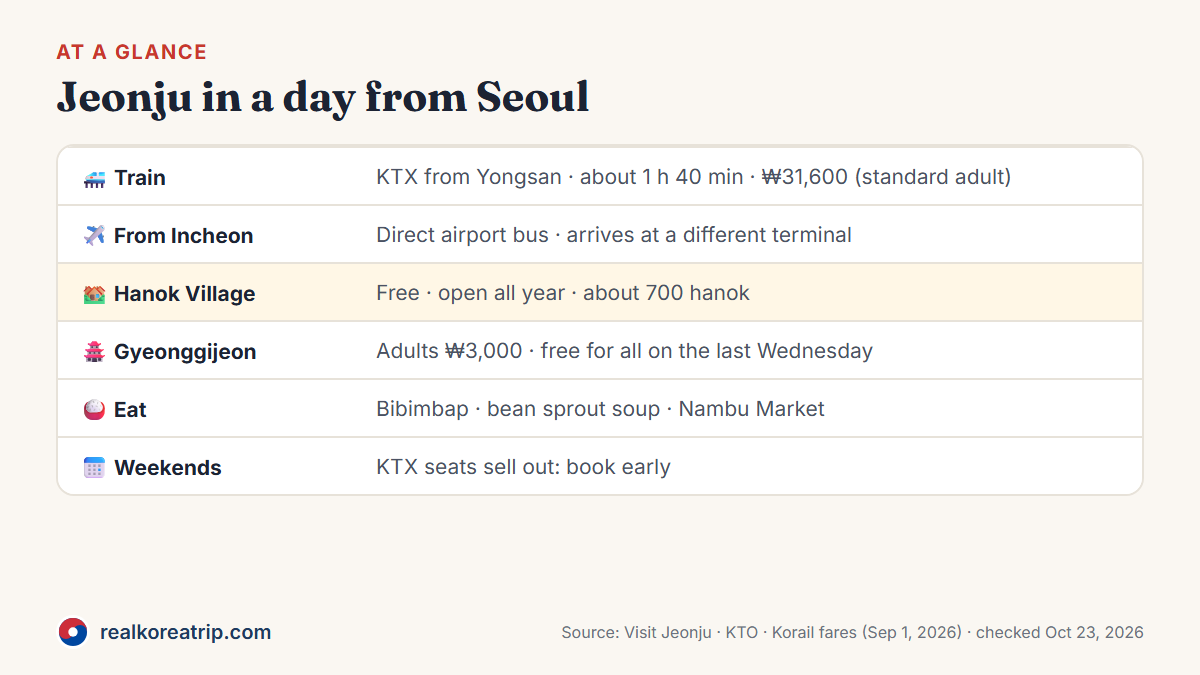
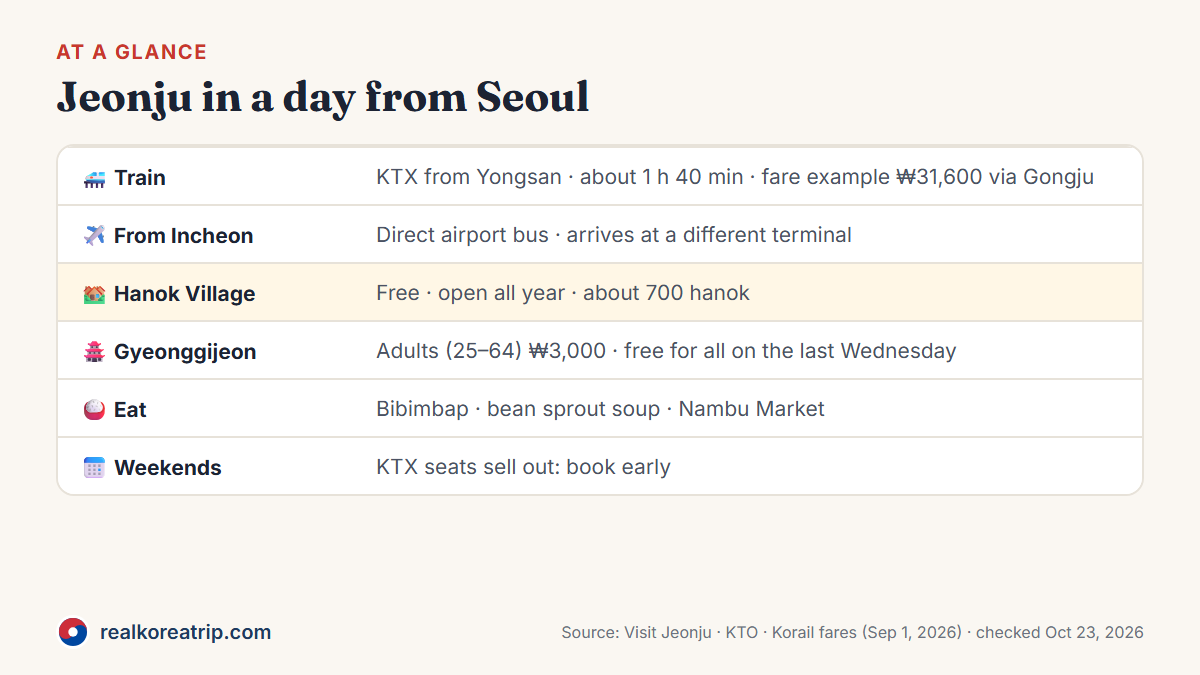
Update 4 guides to new format (Codex-verified): Naver Map, paying, subway, Jeonju food

Changed region(s): [[0.37, 0.4978, 0.8017, 0.5289], [0.6167, 0.2489, 0.925, 0.28]]

diff --git a/category/local-tips/index.html b/category/local-tips/index.html
@@ -13,7 +13,7 @@
 <nav class="main"><a href="/category/start-here/">Start Here</a><a href="/category/getting-around/">Getting Around</a><a href="/category/destinations/">Destinations</a><a href="/category/food/">Food</a><a href="/category/local-tips/" class="on">Local Tips</a><a href="/about/">About</a></nav>
 </div></header>
 <div class="wrap"><div class="page-head"><span class="label">Category</span><h1>Local Tips</h1><p>Apps, payments, etiquette and the small things that make a trip easier.</p></div></div>
-<section style="padding-top:32px"><div class="wrap"><div class="posts"><a class="post" href="/korea-tax-refund-guide/"><div class="img " style="background-image:url(/img/taxrefund-cover.png?v=fa24db50)"></div><div class="body"><span class="label">Local Tips</span><h3>Tax Refund in Korea: How Visitors Get Money Back on Shopping</h3><p>Who can claim a tax refund in Korea, the ₩15,000 minimum, instant refunds in stores, and what to do at the airport so you don't lose your refund.</p><div class="meta"><b>✓ Checked Oct 2026</b><span>7 min read</span></div></div></a><a class="post" href="/paying-in-korea-foreign-cards-cash/"><div class="img " style="background-image:url(/img/pay-cover.png?v=3f3ff49f)"></div><div class="body"><span class="label">Local Tips</span><h3>Paying in Korea: Foreign Cards, Cash and What Still Needs Won</h3><p>Where a foreign card works in Korea, where you still need won cash, and how to get won at Incheon Airport — checked against official sources.</p><div class="meta"><b>✓ Checked Oct 2026</b><span>6 min read</span></div></div></a><a class="post" href="/esim-sim-card-pocket-wifi-korea/"><div class="img " style="background-image:url(/img/esim-cover.png?v=d5d35e71)"></div><div class="body"><span class="label">Local Tips</span><h3>eSIM vs SIM Card vs Pocket Wi-Fi in Korea: Which One Should You Get?</h3><p>eSIM, SIM card, pocket Wi-Fi or free Wi-Fi in Korea — prices from the carriers' own sites, when you need a Korean number, and how to choose.</p><div class="meta"><b>✓ Checked Oct 2026</b><span>11 min read</span></div></div></a><a class="post" href="/how-to-use-naver-map-korea/"><div class="img " style="background-image:url(/img/naver-cover.png?v=8756aee5)"></div><div class="body"><span class="label">Local Tips</span><h3>How to Use Naver Map in Korea (and Why Google Maps Isn't Enough)</h3><p>Google Maps gave us transit routes in Seoul but no walking or driving directions. Here's how to set up and use Naver Map in English, step by step.</p><div class="meta"><b>✓ Checked Oct 2026</b><span>4 min read</span></div></div></a></div></div></section>
+<section style="padding-top:32px"><div class="wrap"><div class="posts"><a class="post" href="/korea-tax-refund-guide/"><div class="img " style="background-image:url(/img/taxrefund-cover.png?v=fa24db50)"></div><div class="body"><span class="label">Local Tips</span><h3>Tax Refund in Korea: How Visitors Get Money Back on Shopping</h3><p>Who can claim a tax refund in Korea, the ₩15,000 minimum, instant refunds in stores, and what to do at the airport so you don't lose your refund.</p><div class="meta"><b>✓ Checked Oct 2026</b><span>7 min read</span></div></div></a><a class="post" href="/paying-in-korea-foreign-cards-cash/"><div class="img " style="background-image:url(/img/pay-cover.png?v=3f3ff49f)"></div><div class="body"><span class="label">Local Tips</span><h3>Paying in Korea: Foreign Cards, Cash and What Still Needs Won</h3><p>Where a foreign card works in Korea, where you still need won cash, and how to get won at Incheon Airport — checked against official sources.</p><div class="meta"><b>✓ Checked Oct 2026</b><span>6 min read</span></div></div></a><a class="post" href="/esim-sim-card-pocket-wifi-korea/"><div class="img " style="background-image:url(/img/esim-cover.png?v=d5d35e71)"></div><div class="body"><span class="label">Local Tips</span><h3>eSIM vs SIM Card vs Pocket Wi-Fi in Korea: Which One Should You Get?</h3><p>eSIM, SIM card, pocket Wi-Fi or free Wi-Fi in Korea — prices from the carriers' own sites, when you need a Korean number, and how to choose.</p><div class="meta"><b>✓ Checked Oct 2026</b><span>11 min read</span></div></div></a><a class="post" href="/how-to-use-naver-map-korea/"><div class="img " style="background-image:url(/img/naver-cover.png?v=8756aee5)"></div><div class="body"><span class="label">Local Tips</span><h3>How to Use Naver Map in Korea (and Why Google Maps Isn't Enough)</h3><p>Google Maps gave us transit routes in Seoul but no walking or driving directions. Here's how to set up and use Naver Map in English, step by step.</p><div class="meta"><b>✓ Checked Oct 2026</b><span>5 min read</span></div></div></a></div></div></section>
 <footer><div class="wrap"><div class="cols">
 <div><a class="logo" style="color:#fff" href="/"><svg class="mark" aria-hidden="true" xmlns="http://www.w3.org/2000/svg" viewBox="0 0 64 64"><circle cx="32" cy="32" r="30" fill="#0047a0"/><path d="M2 32A30 30 0 0 1 62 32A15 15 0 0 0 32 32A15 15 0 0 1 2 32Z" fill="#cd2e3a"/><circle cx="32" cy="32" r="10" fill="#fff"/></svg><span>Real<em>Korea</em>Trip</span></a><p style="margin-top:12px;max-width:320px">Practical, up-to-date guides for travelers visiting South Korea.</p></div>
 <div><h4>Plan</h4><ul><li><a href="/category/start-here/">Start Here</a></li><li><a href="/category/getting-around/">Getting Around</a></li><li><a href="/category/local-tips/">Local Tips</a></li></ul></div>

diff --git a/how-to-use-naver-map-korea/index.html b/how-to-use-naver-map-korea/index.html
@@ -15,13 +15,15 @@
 <div class="wrap article-wrap"><article class="article">
 <div class="crumb"><a href="/">Home</a> › <a href="/category/local-tips/">Local Tips</a></div>
 <h1>How to Use Naver Map in Korea (and Why Google Maps Isn't Enough)</h1>
-<div class="byline"><span>By Real Korea Trip Editors</span><span class="checked">✓ Last checked: Oct 22, 2026</span><span>4 min read</span></div>
+<div class="byline"><span>By Real Korea Trip Editors</span><span class="checked">✓ Last checked: Oct 22, 2026</span><span>5 min read</span></div>
 
 <figure class="fig" style="margin-top:24px"><img src="/img/naver-cover.png?v=8756aee5" alt="Illustration of a phone map app with the title How to Use Naver Map in Korea" width="1200" height="630"></figure>
 <div class="quick"><h2>Quick answer</h2><ul><li><b>Use Naver Map in Korea.</b> It has English maps, English navigation, and transit, walking and driving directions.</li><li><b>Google Maps</b> showed transit routes in Seoul in our web test on Oct 22, 2026, but <b>no walking or driving</b> directions for the route we checked.</li><li>Install Naver Map before you fly. It follows your phone's language, or you can pick English in the app's language setting.</li></ul></div>
 <div class="changes"><b>Recent changes to know</b><ul><li><time>Feb 27, 2026</time>South Korea's government conditionally approved Google's request to export 1:5,000-scale map data, subject to security requirements. In our web test on Oct 22, 2026, walking and driving directions were still unavailable for the route we checked.</li></ul></div>
 <nav class="toc"><b>In this guide</b><ol><li><a href="#the-short-version">The short version</a></li><li><a href="#why-google-maps-isn-t-enough-in-korea">Why Google Maps isn't enough in Korea</a></li><li><a href="#what-naver-map-gives-you">What Naver Map gives you</a></li><li><a href="#how-to-use-naver-map-step-by-step">How to use Naver Map, step by step</a></li><li><a href="#before-you-fly-checklist">Before you fly: checklist</a></li><li><a href="#faq">FAQ</a></li></ol></nav>
-<div class="prose"><figure class="fig"><img src="/img/naver-compare.png?v=51b5d6bf" alt="Comparison of Google Maps and Naver Map in Korea for transit, walking and driving directions, based on our Oct 22, 2026 test and Naver Map's store listing" loading="lazy" width="1200" height="675"><figcaption>Google Maps vs Naver Map in Korea. Details and sources below.</figcaption></figure>
+<div class="prose"><p><b>Install Naver Map (developer: NAVER Corp.) before you fly.</b> In our web test on Oct 22, 2026, Google Maps showed transit routes in Seoul but no walking or driving directions for the route we checked. Naver Map offers transit directions with real-time departure and arrival times, walking and driving directions, and maps in four languages, including English.</p>
+<p class="src">Source: our Google Maps test on Oct 22, 2026; <a href="https://apps.apple.com/us/app/naver-map-navigation/id311867728" target="_blank" rel="noopener">Naver Map App Store listing</a>; checked Oct 22, 2026.</p>
+<figure class="fig"><img src="/img/naver-compare.png?v=51b5d6bf" alt="Comparison of Google Maps and Naver Map in Korea for transit, walking and driving directions, based on our Oct 22, 2026 test and Naver Map's store listing" loading="lazy" width="1200" height="675"><figcaption>Google Maps vs Naver Map in Korea. Details and sources below.</figcaption></figure>
 <h2 id="the-short-version">The short version</h2>
 <div class="tbl"><table><thead><tr><th></th><th>Google Maps</th><th>Naver Map</th></tr></thead><tbody><tr><td>Transit directions</td><td>✅ Worked in our test</td><td>✅ With real-time departure and arrival times</td></tr><tr><td>Walking directions</td><td>❌ Not available in our test</td><td>✅</td></tr><tr><td>Driving directions</td><td>❌ Not available in our test</td><td>✅ English navigation</td></tr><tr><td>Map languages</td><td>—</td><td>English, Japanese, Korean, Simplified Chinese</td></tr></tbody></table></div>
 <p class="src">Source: our Google Maps test on Oct 22, 2026; <a href="https://apps.apple.com/us/app/naver-map-navigation/id311867728" target="_blank" rel="noopener">Naver Map App Store listing</a>, checked Oct 22, 2026.</p>

diff --git a/paying-in-korea-foreign-cards-cash/index.html b/paying-in-korea-foreign-cards-cash/index.html
@@ -21,7 +21,8 @@
 <div class="quick"><h2>Quick answer</h2><ul><li><b>Credit cards are widely used</b> — the Korea Tourism Organization names Visa, Mastercard and American Express — but check that each shop accepts your card, and carry some won for cash-only needs.</li><li><b>Carry a little won anyway.</b> A regular T-money card is topped up with Korean won cash.</li><li><b>Landing at Incheon Terminal 1?</b> The arrivals floor has currency exchange counters that are open 24 hours.</li></ul></div>
 
 <nav class="toc"><b>In this guide</b><ol><li><a href="#the-short-version">The short version</a></li><li><a href="#paying-by-card">Paying by card</a></li><li><a href="#where-won-still-comes-in-handy">Where won still comes in handy</a></li><li><a href="#getting-won-when-you-land">Getting won when you land</a></li><li><a href="#taxi-apps-and-naver-s-visitor-verification">Taxi apps and NAVER's visitor verification</a></li><li><a href="#prepaid-travel-cards">Prepaid travel cards</a></li><li><a href="#our-take">Our take</a></li><li><a href="#before-you-fly">Before you fly</a></li><li><a href="#faq">FAQ</a></li></ol></nav>
-<div class="prose"><p>Cards are widely used in Korea. Hotels, department stores and most shops take them, and taxis accept card payment too — though no one can promise your particular card will work everywhere. The catch is the small stuff — a regular T-money top-up, the odd shop that doesn't take cards — and that's where a little Korean won saves you a walk to the ATM.</p>
+<div class="prose"><p><b>Most businesses in Korea accept credit cards — the Korea Tourism Organization names Visa, Mastercard and American Express — but some stores don't, and a regular T-money card is topped up with Korean won cash, so carry some won.</b> At Seoul's 440 new subway ticket machines on Lines 1–8, a foreign card buys single tickets and Climate Card short-term passes for about a 3.7% fee. Landing at Incheon Terminal 1? The arrivals floor has currency exchange counters open 24 hours.</p>
+<p class="src">Source: <a href="https://english.visitkorea.or.kr/svc/contents/contentsView.do?vcontsId=140040" target="_blank" rel="noopener">VISITKOREA — currency</a>, <a href="https://pay.tmoney.co.kr/ncs/pct/ugd/ReadFrgnGd.dev" target="_blank" rel="noopener">T-money</a>, <a href="https://english.seoul.go.kr/climate-cards-and-single-journey-transit-tickets-now-accepting-international-credit-cards-no-cash-needed/" target="_blank" rel="noopener">Seoul Metropolitan Government</a> and <a href="https://www.airport.kr/ap_en/1536/subview.do" target="_blank" rel="noopener">Incheon Airport</a>; checked Oct 23, 2026.</p>
 <figure class="fig"><img src="/img/pay-compare.png?v=96e100e5" alt="Where a foreign card works in Korea: shops and hotels usually, taxis usually, new subway ticket machines yes with a fee, regular T-money top-ups at stores or stations need won cash" loading="lazy" width="1200" height="675"><figcaption>Card or cash? Details and sources below.</figcaption></figure>
 <h2 id="the-short-version">The short version</h2>
 <div class="tbl"><table><thead><tr><th>Where</th><th>Foreign card?</th><th>Good to know</th></tr></thead><tbody><tr><td>Hotels, department stores, most shops</td><td>Usually</td><td>Some stores don't take cards — check before you buy</td></tr><tr><td>Taxis</td><td>Usually — check before you get in</td><td>Cash, credit card or a transport card</td></tr><tr><td>Subway single tickets and Climate Card short-term passes</td><td>Yes, at the 440 new machines on Lines 1–8</td><td>About 3.7% service fee</td></tr><tr><td>Topping up a regular T-money card at a store or station</td><td>No</td><td>Korean won cash</td></tr><tr><td>TABA taxi app</td><td>Yes</td><td>Visa, Mastercard, UnionPay, JCB</td></tr></tbody></table></div>

diff --git a/what-to-eat-in-jeonju/index.html b/what-to-eat-in-jeonju/index.html
@@ -21,7 +21,8 @@
 <div class="quick"><h2>Quick answer</h2><ul><li><b>Start with Jeonju bibimbap.</b> Jeonju City describes it as more than 30 ingredients in one bowl, with rice cooked in beef bone broth and Jeonju's own bean sprouts.</li><li><b>Then try kongnamul gukbap (bean sprout soup with rice).</b> The city recommends it with a poached egg, sesame oil and roasted laver, and pairs it with moju, a herbal liquor.</li><li><b>Go to Nambu Market</b> for pisundae, the early-morning Dawn Goblin Market (go before 9 a.m.) and the market's youth mall and night market.</li></ul></div>
 
 <nav class="toc"><b>In this guide</b><ol><li><a href="#the-short-version">The short version</a></li><li><a href="#jeonju-bibimbap">Jeonju bibimbap</a></li><li><a href="#kongnamul-gukbap-bean-sprout-soup-with-rice">Kongnamul gukbap: bean sprout soup with rice</a></li><li><a href="#nambu-market">Nambu Market</a></li><li><a href="#why-jeonju-is-known-for-food">Why Jeonju is known for food</a></li><li><a href="#before-you-go">Before you go</a></li><li><a href="#faq">FAQ</a></li></ol></nav>
-<div class="prose"><p>Jeonju is a UNESCO City of Gastronomy. If you only have a day, three things are worth knowing about: Jeonju bibimbap, the city's bean sprout soup with rice, and Nambu Market. Here's what each one is, how it's served, and where to find it.</p>
+<div class="prose"><p><b>In Jeonju, eat three things: Jeonju bibimbap (more than 30 ingredients, with rice cooked in beef bone broth), kongnamul gukbap (bean sprout soup with rice) and pisundae at Nambu Market, next to Pungnammun Gate.</b> Jeonju is a UNESCO City of Gastronomy. For the market's early-morning Dawn Goblin Market, go before 9 a.m.</p>
+<p class="src">Source: <a href="https://tour.jeonju.go.kr/eng/index.jeonju?menuCd=DOM_000000203010000000" target="_blank" rel="noopener">Visit Jeonju — food</a> and <a href="https://tour.jeonju.go.kr/eng/index.jeonju?menuCd=DOM_000000203011001000" target="_blank" rel="noopener">Nambu Market</a>, and <a href="https://www.unesco.org/en/creative-cities/jeonju" target="_blank" rel="noopener">UNESCO Creative Cities Network — Jeonju</a>; checked Oct 23, 2026.</p>
 <figure class="fig"><img src="/img/jeonju-food-steps.png?v=d63eb797" alt="Graphic: what to eat in Jeonju — bibimbap, kongnamul gukbap with moju, pisundae, Nambu Market" loading="lazy" width="1200" height="675"><figcaption>What to eat in Jeonju at a glance. Details and sources below.</figcaption></figure>
 <h2 id="the-short-version">The short version</h2>
 <div class="tbl"><table><thead><tr><th>Dish or place</th><th>What it is</th><th>Where</th></tr></thead><tbody><tr><td>Jeonju bibimbap</td><td>Rice topped with more than 30 ingredients, mixed at the table</td><td>Old town, Hanok Village, around City Hall and the major markets</td></tr><tr><td>Kongnamul gukbap</td><td>Bean sprout soup with rice, a local <em>haejang</em> (morning-after) meal</td><td>Nambu Market and specialist restaurants</td></tr><tr><td>Moju</td><td>A traditional alcoholic drink boiled with herbs, served with the soup</td><td>Same places as kongnamul gukbap</td></tr><tr><td>Pisundae</td><td>Jeonju-style blood sausage in pig intestine</td><td>Nambu Market</td></tr><tr><td>Nambu Market</td><td>Jeonju's main traditional market, with an early-morning market, youth mall and night market</td><td>Next to Pungnammun Gate, near the Hanok Village</td></tr></tbody></table></div>

diff --git a/seoul-subway-guide/index.html b/seoul-subway-guide/index.html
@@ -21,7 +21,8 @@
 <div class="quick"><h2>Quick answer</h2><ul><li><b>Standard adult fares start at ₩1,550 with a transit card (T-money) or ₩1,650 with a single-journey ticket</b> for the first 10 km. Distance charges are ₩100 per 5 km up to 50 km, then ₩100 per 8 km; some lines add separate fares.</li><li><b>Tap your card when you enter and when you leave.</b> Skip the tap on the way out and you lose the transfer discount on your next bus or train.</li><li><b>Single-journey tickets add a ₩500 deposit</b> that you get back from a refund machine at your destination.</li></ul></div>
 
 <nav class="toc"><b>In this guide</b><ol><li><a href="#the-short-version">The short version</a></li><li><a href="#what-to-pay-with">What to pay with</a></li><li><a href="#tap-in-tap-out">Tap in, tap out</a></li><li><a href="#transfers-how-the-discount-works">Transfers: how the discount works</a></li><li><a href="#finding-your-way">Finding your way</a></li><li><a href="#before-your-first-ride">Before your first ride</a></li><li><a href="#faq">FAQ</a></li></ol></nav>
-<div class="prose"><p>The Seoul subway is the easiest part of a first trip to Korea, once you know three things: what to pay with, that you tap out as well as in, and that a transfer to a bus can be discounted. Station signs include English, and the lines are numbered and color-coded. What catches visitors out is the fare system, so that's most of this guide.</p>
+<div class="prose"><p><b>An adult Seoul subway ride costs ₩1,550 with a T-money card or ₩1,650 with a single-journey ticket (plus a ₩500 deposit you get back) for the first 10 km.</b> Tap your card when you enter and when you leave, or you lose the transfer discount on your next bus or train. The fare system is where visitors get caught out, so most of this guide is about paying and transferring.</p>
+<p class="src">Source: <a href="https://english.seoul.go.kr/policy/transportation/modes-of-transport/subway/" target="_blank" rel="noopener">Seoul Metropolitan Government — subway fares</a> (as of Jun 28, 2025) and <a href="http://www.seoulmetro.co.kr/en/page.do?menuIdx=348" target="_blank" rel="noopener">Seoul Metro — fare</a>; checked Oct 23, 2026.</p>
 <figure class="fig"><img src="/img/subway-steps.png?v=ba9db5a8" alt="Graphic: Seoul subway in 4 steps — get a card or ticket, tap in, tap out, transfer if eligible" loading="lazy" width="1200" height="675"><figcaption>The Seoul subway in four steps. Details and sources below.</figcaption></figure>
 <h2 id="the-short-version">The short version</h2>
 <div class="tbl"><table><thead><tr><th></th><th>Adult fare</th><th>Good to know</th></tr></thead><tbody><tr><td>T-money (transit card)</td><td>₩1,550 for the first 10 km</td><td>Top up with won cash; transfer discounts with buses</td></tr><tr><td>Single-journey ticket</td><td>₩1,650 for the first 10 km</td><td>Plus a ₩500 deposit, refunded at your destination</td></tr><tr><td>Climate Card short-term pass</td><td>₩5,000 (1 day) to ₩20,000 (7 days)</td><td>Unlimited rides in its coverage area; card costs ₩3,000</td></tr><tr><td>Children aged 6–12</td><td>₩550</td><td>T-money must be registered with the child's date of birth; under 6 free with a guardian (up to 3 children)</td></tr></tbody></table></div>

diff --git a/jeonju-day-trip-from-seoul/index.html b/jeonju-day-trip-from-seoul/index.html
@@ -22,7 +22,7 @@
 
 <nav class="toc"><b>In this guide</b><ol><li><a href="#the-short-version">The short version</a></li><li><a href="#getting-there">Getting there</a></li><li><a href="#jeonju-hanok-village">Jeonju Hanok Village</a></li><li><a href="#gyeonggijeon-shrine">Gyeonggijeon Shrine</a></li><li><a href="#getting-around-the-village">Getting around the village</a></li><li><a href="#what-to-eat">What to eat</a></li><li><a href="#before-you-go">Before you go</a></li><li><a href="#faq">FAQ</a></li></ol></nav>
 <div class="prose"><p>Jeonju makes a manageable day trip from Seoul: a fast train, a walkable old town of tiled roofs, a royal shrine, and a food culture that UNESCO recognizes. This guide covers the parts that decide whether the day goes smoothly: which station to leave from, where you'll arrive, and what to see once you're there.</p>
-<figure class="fig"><img src="/img/jeonju-steps.png?v=0e763db7" alt="Graphic: Jeonju day trip at a glance — KTX from Yongsan, Hanok Village, Gyeonggijeon Shrine, what to eat" loading="lazy" width="1200" height="675"><figcaption>Jeonju day trip at a glance. Details and sources below.</figcaption></figure>
+<figure class="fig"><img src="/img/jeonju-steps.png?v=64f781ab" alt="Graphic: Jeonju day trip at a glance — KTX from Yongsan, Hanok Village, Gyeonggijeon Shrine, what to eat" loading="lazy" width="1200" height="675"><figcaption>Jeonju day trip at a glance. Details and sources below.</figcaption></figure>
 <h2 id="the-short-version">The short version</h2>
 <div class="tbl"><table><thead><tr><th></th><th>What to know</th></tr></thead><tbody><tr><td>Train</td><td>KTX from Yongsan Station, about 1 hour 40 minutes; standard adult fare ₩31,600</td></tr><tr><td>From the airport</td><td>Direct airport bus from Incheon to Jeonju (different arrival point from the train)</td></tr><tr><td>Hanok Village</td><td>Free to enter, open all year, around 700 hanok buildings</td></tr><tr><td>Gyeonggijeon Shrine</td><td>Adults ₩3,000; free for everyone on the last Wednesday of each month</td></tr><tr><td>Busy times</td><td>Weekends, holidays and festival seasons: book seats early</td></tr></tbody></table></div>
 <p class="src">Source: <a href="https://tour.jeonju.go.kr/eng/index.jeonju?menuCd=DOM_000000205008000000" target="_blank" rel="noopener">Visit Jeonju — getting to Jeonju</a>, <a href="https://english.visitkorea.or.kr/svc/contents/contentsView.do?vcontsId=110848" target="_blank" rel="noopener">Korea Tourism Organization — Jeonju Hanok Village</a> and <a href="https://english.visitkorea.or.kr/svc/whereToGo/locIntrdn/rgnContentsView.do?vcontsId=108728" target="_blank" rel="noopener">Gyeonggijeon Shrine</a>, and Korail's KTX fare table (as of Sep 1, 2026; see our <a href="/how-to-book-ktx-korea/">KTX guide</a>); checked Oct 23, 2026.</p>
